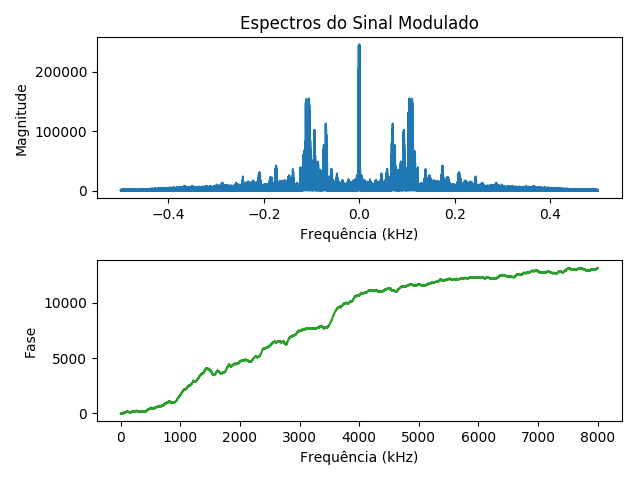
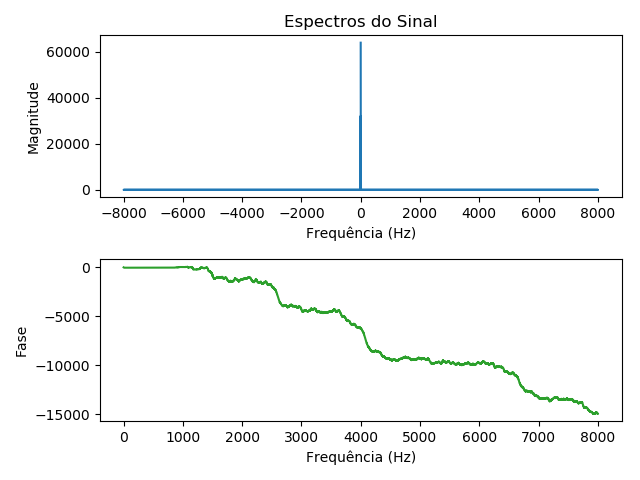
Sincronia da portadora e sinal demodulador; adição de função resample; correção de bugs

diff --git a/Codigo_Oficial.py b/Codigo_Oficial.py
@@ -3,19 +3,21 @@ import numpy as np
 import wave
 import sys
 from spectres import Spectres
-
+from scipy import signal
+#from skimage import util
 
 # Setar diretório e arquivo
-caminho = "/home/jean/Documentos/Filter-Project/Data/"
+caminho = 'C:\\Users\\jeanm\\Documents\\Filter-Project\\Data\\'
 arquivo_audio1 = "mountain_king_16kHz"
 arquivo_audio2 = "queen_of_the_night_16kHz"
 spf1 = wave.open(caminho + arquivo_audio1 + '.wav', 'rb')
 spf2 = wave.open(caminho + arquivo_audio2 + '.wav', 'rb')
 
 # Caso Stereo
-if spf1.getnchannels() == 2 or spf2.getnchannels() == 2:
-    print('Apenas arquivos mono')
-    sys.exit(0)
+if spf1.getnchannels() == 2:
+    spf1 = spf1.mean(axis=1)
+elif spf2.getnchannels() == 2:
+    spf2 = spf2.mean(axis=1)
 
 # Parâmetros Gerais da Simulação
 Fs = 16000  # Frequência de Amostragem
@@ -25,10 +27,11 @@ sz = 128000  # Taxa do Projeto (Hz)
 signal1 = np.frombuffer(spf1.readframes(sz), dtype=np.int16)  # Carregar sinal 1
 signal2 = np.frombuffer(spf1.readframes(sz), dtype=np.int16)  # Carregar sinal 2
 
+
 # Criação do Sinal Portadora de Transmissão
-Fc = 6  # Frequência da Portadora
-Ac = 3  # Amplitude da Portadora
-carrier = Ac*np.cos(2*np.pi*Fc*n)
+Fc = 3  # Frequência da Portadora
+Ac = 1  # Amplitude da Portadora
+carrier = Ac*np.cos(2*np.pi*Fc*n + np.pi/2)
 plt.figure(figsize=(12, 4))
 plt.title('Sinal Portadora')
 plt.plot(n, carrier)
@@ -36,18 +39,17 @@ plt.grid()
 plt.show()
 
 # Criação do sinal Modulante (Somente para testes)
-# Fm = 0.5  # Frequência do Modulante
-# Am = 1  # Amplitude do Modulante
-# m = Am*np.cos(2*np.pi*Fm*n)
-# plt.figure(figsize=(12, 4))
-# plt.title('Sinal Modulante')
-# plt.plot(n, m)
-# plt.show()
+Fm = 0.5  # Frequência do Modulante
+Am = 1  # Amplitude do Modulante
+m = Am*np.cos(2*np.pi*Fm*n + np.pi/2)
+plt.figure(figsize=(12, 4))
+plt.title('Sinal Modulante')
+plt.plot(n, m)
+plt.show()
 
 
 # Modulação Sinal de Audio 1 com Portadora(Carrier)
-s = carrier * (1 + signal1/Ac)
-
+s = carrier * (1 + m/Ac)
 plt.figure(figsize=(12, 4))
 plt.plot(n, s)
 plt.title('Sinal Modulado 1')
@@ -61,22 +63,38 @@ Spectres.generate_spectres(path=caminho, signal=s, Fs=Fs, stypeName='Modulado_Si
 
 # Demodulação do sinal de Audio 1 (COM ERRO, PRECISAMOS REFAZER)
 fa = 10
-h = s * np.cos(2*np.pi*fa*n)
+h = s * np.cos(2*np.pi*Fc*n + np.pi/2)
+#h = Ac*(1 + (Am/Ac)*m)
 
 plt.figure(figsize=(12, 4))
 plt.plot(n, h)
 plt.title('Sinal Demodulado 1')
 plt.xlabel('Tempo(s)')
 plt.ylabel('Amplitude')
+plt.ylim(-3, 3)
 plt.grid()
 plt.show()
 
 # Espectros do sinal Demodulado 1
 Spectres.generate_spectres(path=caminho, signal=h, Fs=Fs, stypeName='Demodulado_Sinal_1')
 
+# Filtro Passa-Baixa com Circuito RC
+print((1/Fm)*(np.sqrt(1-(Am/Ac)**2)/(Am/Ac)))
+RC = 1.5
+cutoff = 1/(2*np.pi*RC)  # frequência de corte
+B, A = signal.butter(5, Fc*2/Fs, btype='low') # 1st order Butterworth low-pass
+filtered_signal = signal.lfilter(B, A, h, axis=0)
+plt.figure(figsize=(12, 4))
+plt.plot(n, filtered_signal)
+plt.title('Sinal Filtrado 1')
+plt.show()
+
+#   DownSampling
+samps = SimTime * 16000
+signal2 = signal.resample(signal2, samps)
+
 # Modulação Sinal de Audio 2 com Portadora(Carrier)
 s = carrier * (1 + signal2/Ac)
-
 plt.figure(figsize=(12, 4))
 plt.plot(n, s)
 plt.title('Sinal Modulado 2')
@@ -89,9 +107,7 @@ plt.show()
 Spectres.generate_spectres(path=caminho, signal=s, Fs=Fs, stypeName='Modulado_Sinal_2')
 
 # Demodulação do sinal de Audio 2 (COM ERRO, PRECISAMOS REFAZER)
-fa = 10
-h = s * np.cos(2*np.pi*fa*n)
-
+h = s * np.cos(2*np.pi*Fc*n + np.pi/2)
 plt.figure(figsize=(12, 4))
 plt.plot(n, h)
 plt.title('Sinal Demodulado 2')
@@ -103,5 +119,11 @@ plt.show()
 # Espectros do sinal Demodulado 2
 Spectres.generate_spectres(path=caminho, signal=h, Fs=Fs, stypeName='Demodulado_Sinal_2')
 
-
+# Filtro Passa-Baixa com Circuito RC
+B, A = signal.butter(5, Fc*2/Fs, btype='low') # 1st order Butterworth low-pass
+filtered_signal = signal.lfilter(B, A, h, axis=0)
+plt.figure(figsize=(12, 4))
+plt.plot(n, filtered_signal)
+plt.title('Sinal Filtrado 2')
+plt.show()
 

diff --git a/spectres.py b/spectres.py
@@ -7,19 +7,19 @@ class Spectres(object):  # (É NECESSÁRIO REVER COERÊNCIA DAS FUNÇÕES QUE GE
     @staticmethod
     def generate_spectres(path, signal, Fs, stypeName):
         spectrum = np.fft.fft(signal)  # Transformada de Fourier
-        freqs = np.fft.fftfreq(len(spectrum))  # Frequências do Sinal
+        freqs = np.fft.fftfreq(len(signal), 1/Fs)  # Frequências do Sinal
         magnitude = np.abs(spectrum)    # Amplitude do Sinal
         phase = np.angle(spectrum)  # Fase do Sinal
         plt.subplot(2, 1, 1)
-        #plt.magnitude_spectrum(s, Fs=Fs, color='C1')
+        #plt.magnitude_spectrum(signal,Fs=0.01,  color='C1')
         plt.plot(freqs, magnitude)
-        plt.title('Espectros do Sinal Modulado')
+        plt.title('Espectros do Sinal')
         plt.ylabel("Magnitude")
-        plt.xlabel('Frequência (kHz)')
+        plt.xlabel('Frequência (Hz)')
         plt.subplot(2, 1, 2)
         plt.phase_spectrum(signal, Fs=Fs, color='C2')
         #plt.plot(freqs, phase)
-        plt.xlabel('Frequência (kHz)')
+        plt.xlabel('Frequência (Hz)')
         plt.ylabel("Fase")
         plt.tight_layout()
         plt.savefig(path + "Amplitude_Fase_" + stypeName)
